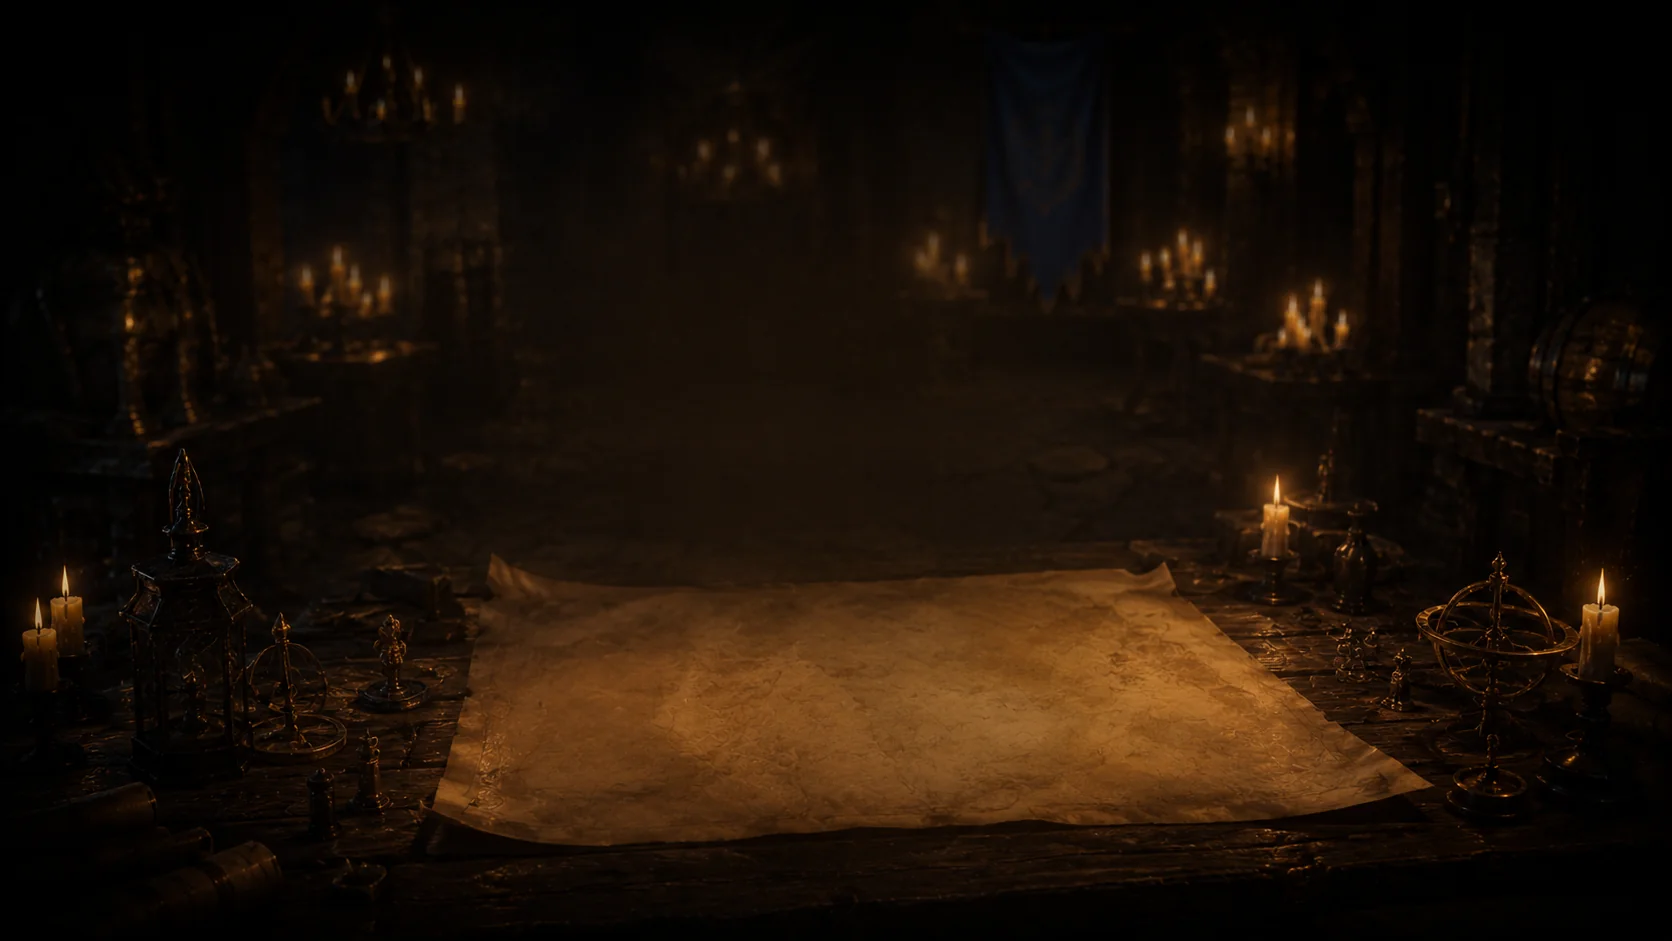
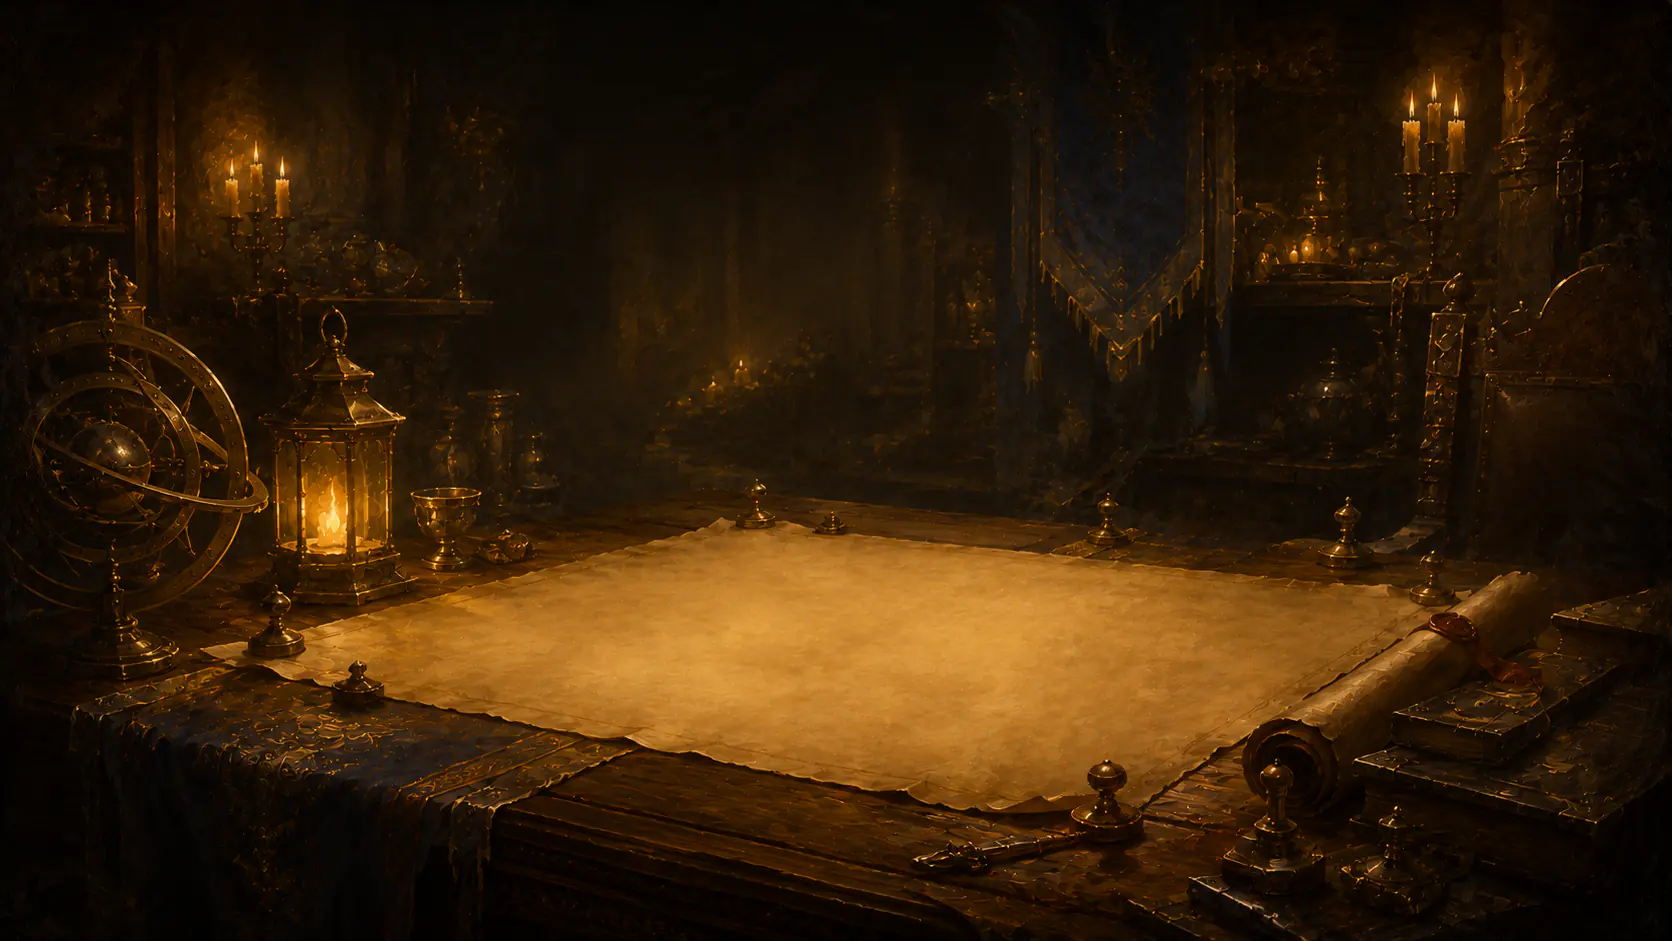
feat(identity): land the Batch-4 v2 wave-2 scene plates — dawn grimoire login + the war-table hall pair
Drop-in swaps of login-light.webp (P15), campaign-backdrop.webp (P16),
and campaign-backdrop-light.webp (P17) at full BG3 richness — zero
wiring change, the per-theme asset tokens carry the v2s as-is. The blue
table runner is graded to warm dark bronze on both war-table twins
(twin-matched B-clamp); stray AI signatures retouched off the light
plates upstream. DESIGN.md §13 rows re-described for the v2 art
(P15/P16/P17 provenance, astrolabe now LEFT on the hall pair, sizes
93/96/173 KiB at q75 + sharp_yuv; the light campaign plate's budget
raised 120 -> 320 KB in line with the other scene plates).

diff --git a/.changeset/bg3-batch4-v2-plates-wave2.md b/.changeset/bg3-batch4-v2-plates-wave2.md
@@ -1,0 +1,18 @@
+---
+"d20-folio": minor
+---
+
+feat(identity): Batch-4 v2 scene plates, wave 2 — the dawn grimoire login and the war-table hall pair repainted at full BG3 richness
+
+Wave 2 of the full-BG3 push lands the remaining three scene plates in place: the dawn
+grimoire sign-in splash (light) and both hours of the war-table campaign hall (dark +
+light) are replaced by their v2 repaints — the same rooms, the same calm centres where
+panels and copy live, but edges painted at BG3 main-menu confidence. The morning grimoire
+is still genuinely the light source of its chamber, radiant through sun shafts full of
+dust motes with the left third kept calm for the sign-in column; the war-table hall gains
+its richly painted astrolabe and glowing lantern at the table's left, and its blue table
+runner is graded to a warm dark bronze on BOTH twins so the pair keeps reading as one room
+at two different hours. Each plate was acceptance-judged against the batch prompt document
+(stray AI signatures retouched off the light plates) and encoded at WebP q75 + sharp_yuv —
+visually transparent at 1:1 — shipping at 93/96/173 KiB. No token or wiring changes — the
+per-theme asset tokens and scrims carry the v2s unchanged.

diff --git a/DESIGN.md b/DESIGN.md
@@ -2114,9 +2114,9 @@ visually-transparent minimum first and re-baseline the ceiling only for delibera
   chrome plates (glowing-grimoire login, war-table campaign default, engraved crest), P7 the
   ornament reference board, P8 the light panel material, P9–P11 the daylight sibling plates
   (daylight study / daylight war table / dawn grimoire login), and Batch 4 (the full-BG3 push,
-  `~/Documents/d20-folio-bg3-asset-prompts.md`) — P12–P14 shipped so far: the v2 repaints of the
-  study pair + dark login at BG3 main-menu richness (same rooms, richly painted edges, calm
-  centres preserved).
+  `~/Documents/d20-folio-bg3-asset-prompts.md`) — P12–P17 shipped so far: the v2 repaints of all
+  three scene-plate pairs (study pair, login pair, war-table campaign pair) at BG3 main-menu
+  richness (same rooms, richly painted edges, calm centres preserved).
 - **North star.** The D&D-Beyond-splash / BG3-menu grammar stated above — warm amber + one lapis
   accent, a calm dark centre, edges that recede. Every new plate holds to it.
 - **Daylight Sibling Plates (owner-ratified, the light-theme art direction).** Each of the three
@@ -2139,9 +2139,9 @@ visually-transparent minimum first and re-baseline the ceiling only for delibera
 | `public/assets/backgrounds/home-hero.webp`                                      | 1672×941, < 320 KB   | App-wide atmospheric backdrop (`--asset-home-hero`), behind every page — the DARK plate of the pair. The Batch-4 v2 candlelit-study plate (owner-generated P12, full-BG3 push 2026-07-17): richly painted edges at BG3 main-menu confidence — a three-flame brass candelabrum with warm gold bloom left, gold-tooled bookshelves + suspended orrery right, armillary sphere and grimoires below, one lapis inkwell accent — while the middle half stays dead-calm warm near-black (centre mean `#0d0602`, σ4 — panels and text sit there). Ships ~80 KB at q75 + sharp_yuv. **Shipped.**                                                                                                                                                                                                                                                                                                                                                                                                                                                                                                                                                                                          |
 | `public/assets/backgrounds/home-hero-light.webp`                                | 1672×941, < 320 KB   | The **daylight sibling** of `home-hero.webp` (owner-generated P13, Batch-4 v2 2026-07-17) — the LIGHT theme's app-wide backdrop via the light `--asset-home-hero`. Unmistakably the same v2 study at morning: the candelabrum unlit by a high sun-flooded window, the same shelves/orrery/armillary richly painted, golden shafts full of dust motes, the middle half a calm honey mid-tone (centre mean `#bb843d`, σ23 — never near-white, ivory cards still pop), one lapis inkwell remnant. Renders native at the same 0.55 prominence, dissolving into the field at its foot. Ships ~113 KB at q75 + sharp_yuv. **Shipped.**                                                                                                                                                                                                                                                                                                                                                                                                                                                                                                                                                  |
 | `public/assets/backgrounds/login.webp`                                          | 1672×941, < 320 KB   | Sign-in splash — the DARK plate of the pair, via `--asset-login`. The Batch-4 v2 grimoire-altar plate (owner-generated P14, full-BG3 push 2026-07-17): the ancient open grimoire RIGHT-of-centre is genuinely the light source of the whole painting — golden magical bloom off the pages, one lapis energy wisp curling into the dark, a single candle at the far right, carved stone + chains + a lapis banner in Rembrandt chiaroscuro behind — while the ENTIRE LEFT THIRD stays deliberate calm near-black negative space (mean `#060402`, σ2) for the sign-in lockup. Desktop (≥1024px) seats the brand column in that void under the LEFT-anchored scrim wash that fades before the book; narrow crops (<1024px) centre book + lockup + scrim (`.login-splash`, folio.css). Ships ~78 KB at q75 + sharp_yuv. **Shipped.**                                                                                                                                                                                                                                                                                                                                                  |
-| `public/assets/backgrounds/login-light.webp`                                    | 1672×941, < 320 KB   | The **dawn sibling** of `login.webp` (owner-generated P11) — the LIGHT login splash via the light `--asset-login`. The same altar and book at first light: pale golden rays and dust motes entering the chamber, the pages still glowing with their own magic (deliberately dawn-dim — the magic persists into morning), lapis energy curling, the LEFT THIRD calm and softly shadowed for the sign-in column. The light scrims are warm-umber morning washes (folio.css) — they steady the calm void for the bright-ink copy without impersonating night. Ships ~108 KB at q85. **Shipped.**                                                                                                                                                                                                                                                                                                                                                                                                                                                                                                                                                                                     |
-| `public/assets/backgrounds/campaign-backdrop.webp`                              | 1672×941, < 120 KB   | The campaign default art (DESIGN Law 6) — the DARK plate of the pair, via `--asset-campaign-backdrop`: the campaign HUB backdrop (`--app-bg-art`) AND the campaign LIST-card banner (`.cmp-banner`, **16:9** — the asset's native ratio, shown whole) when the DM hasn't set custom art. The owner-generated plate (P5): a candlelit war table under a blank aged map holding a calm low-contrast centre (panels overlay it), brass astrolabe + lantern at the edges, one lapis banner blurred behind. Ships ~72 KB at q85. **Shipped.**                                                                                                                                                                                                                                                                                                                                                                                                                                                                                                                                                                                                                                          |
-| `public/assets/backgrounds/campaign-backdrop-light.webp`                        | 1672×941, < 120 KB   | The **daylight sibling** of `campaign-backdrop.webp` (owner-generated P10) — the LIGHT campaign default via the light `--asset-campaign-backdrop` (hub backdrop + list-card banner alike; the card's decode base flips to the plate's own honey tone `#856337`). The same war table at breakfast: morning light through the hall windows, the same blank map + brass instruments, the lapis banner behind, wood tones in the #6b5636–#8a6f4a band. Ships ~84 KB at q85. **Shipped.**                                                                                                                                                                                                                                                                                                                                                                                                                                                                                                                                                                                                                                                                                              |
+| `public/assets/backgrounds/login-light.webp`                                    | 1672×941, < 320 KB   | The **dawn sibling** of `login.webp` (owner-generated P15, Batch-4 v2 2026-07-23) — the LIGHT login splash via the light `--asset-login`. Unmistakably the same v2 altar at first light: the open grimoire RIGHT-of-centre still genuinely radiant with its own golden magic (the magic persists into morning), one lapis energy wisp curling through sun shafts full of dust motes, carved colonnade + censer chains + an ivy-framed window with in-scene sun-wheel goldwork richly painted at BG3 confidence — while the LEFT THIRD stays calm softly-shadowed umber for the sign-in column. The light scrims are warm-umber morning washes (folio.css) — they steady the calm void for the bright-ink copy without impersonating night. Ships ~93 KB at q75 + sharp_yuv. **Shipped.**                                                                                                                                                                                                                                                                                                                                                                                          |
+| `public/assets/backgrounds/campaign-backdrop.webp`                              | 1672×941, < 120 KB   | The campaign default art (DESIGN Law 6) — the DARK plate of the pair, via `--asset-campaign-backdrop`: the campaign HUB backdrop (`--app-bg-art`) AND the campaign LIST-card banner (`.cmp-banner`, **16:9** — the asset's native ratio, shown whole) when the DM hasn't set custom art. The Batch-4 v2 war-table plate (owner-generated P16, 2026-07-23): a candlelit war table under a blank aged map holding the calm low-contrast centre (panels overlay it), edges at BG3 main-menu richness — armillary astrolabe + glowing lantern at the LEFT (the v2 prompt seats them there; v1 had the astrolabe right), candelabra + brass vessels in the shadows, one lapis banner blurred behind, the table runner graded to warm dark bronze (twin-matched with the light sibling). Ships ~96 KB at q75 + sharp_yuv. **Shipped.**                                                                                                                                                                                                                                                                                                                                                  |
+| `public/assets/backgrounds/campaign-backdrop-light.webp`                        | 1672×941, < 320 KB   | The **daylight sibling** of `campaign-backdrop.webp` (owner-generated P17, Batch-4 v2 2026-07-23) — the LIGHT campaign default via the light `--asset-campaign-backdrop` (hub backdrop + list-card banner alike; the card's decode base flips to the plate's own honey tone `#856337`). Unmistakably the same v2 hall at breakfast: morning sun through leaded ivy-framed windows, the same blank map + astrolabe + lantern at the LEFT, the lapis banner behind, the runner graded to the same warm bronze as its dark twin, wood and parchment in the honey band. Ships ~173 KB at q75 + sharp_yuv (budget raised 120 → 320 KB to match the other scene plates for the deliberate v2 richness). **Shipped.**                                                                                                                                                                                                                                                                                                                                                                                                                                                                    |
 | `public/assets/textures/parchment.webp`                                         | ~1600×1000, < 180 KB | Compendium "ancient tome" cover (`--asset-parchment`) — the LIGHT-theme leaf. A weathered aged scroll in the deep **#6b5a36 → #b8975a** band. **Shipped.**                                                                                                                                                                                                                                                                                                                                                                                                                                                                                                                                                                                                                                                                                                                                                                                                                                                                                                                                                                                                                        |
 | `public/assets/textures/panel-leather.webp`                                     | 1024×1024, < 150 KB  | Seam-blended tileable dark leather grain (`--asset-panel-leather`), in the **#0b0908 → #1d1810** band. **DARK theme only:** laid under a translucent copy of the `.folio-panel` surface gradient (512px tile) — quiet mottle on empty panel areas; the whole sandwich renders on the panel's `::before` at `--panel-alpha` (§5 candlelit translucency) so the backdrop glows through the material. Its **light sibling** is `panel-light.webp` (next row). Ships ~31 KB. **Shipped.**                                                                                                                                                                                                                                                                                                                                                                                                                                                                                                                                                                                                                                                                                             |
 | `public/assets/textures/panel-light.webp`                                       | 1024×1024, < 150 KB  | The **LIGHT-theme sibling of `panel-leather.webp`** (owner-generated P8): seamless tileable pale cream bookbinding leather grain, colour-graded into the **#e9ddc4 → #cdb488** band (mean ~#ddcaa5 · per-channel remap of the source's actual range into the band; verified seamless by a 512-offset wrap test — the wrap discontinuity 3.4/255 is smaller than the texture's own interior drift). Sits **under the light `.folio-panel` surface the same way dark does** — the same 512px-tile sandwich under the panel `::before`, at the light `--panel-alpha` 0.94 (morning-light translucency, §5) with an 80% gradient share (the grain band sits below the ivory surfaces, so a lower share would darken the panel). Wired by the daylight-sibling rebuild. Ships ~25 KB at q80. **Shipped.**                                                                                                                                                                                                                                                                                                                                                                              |